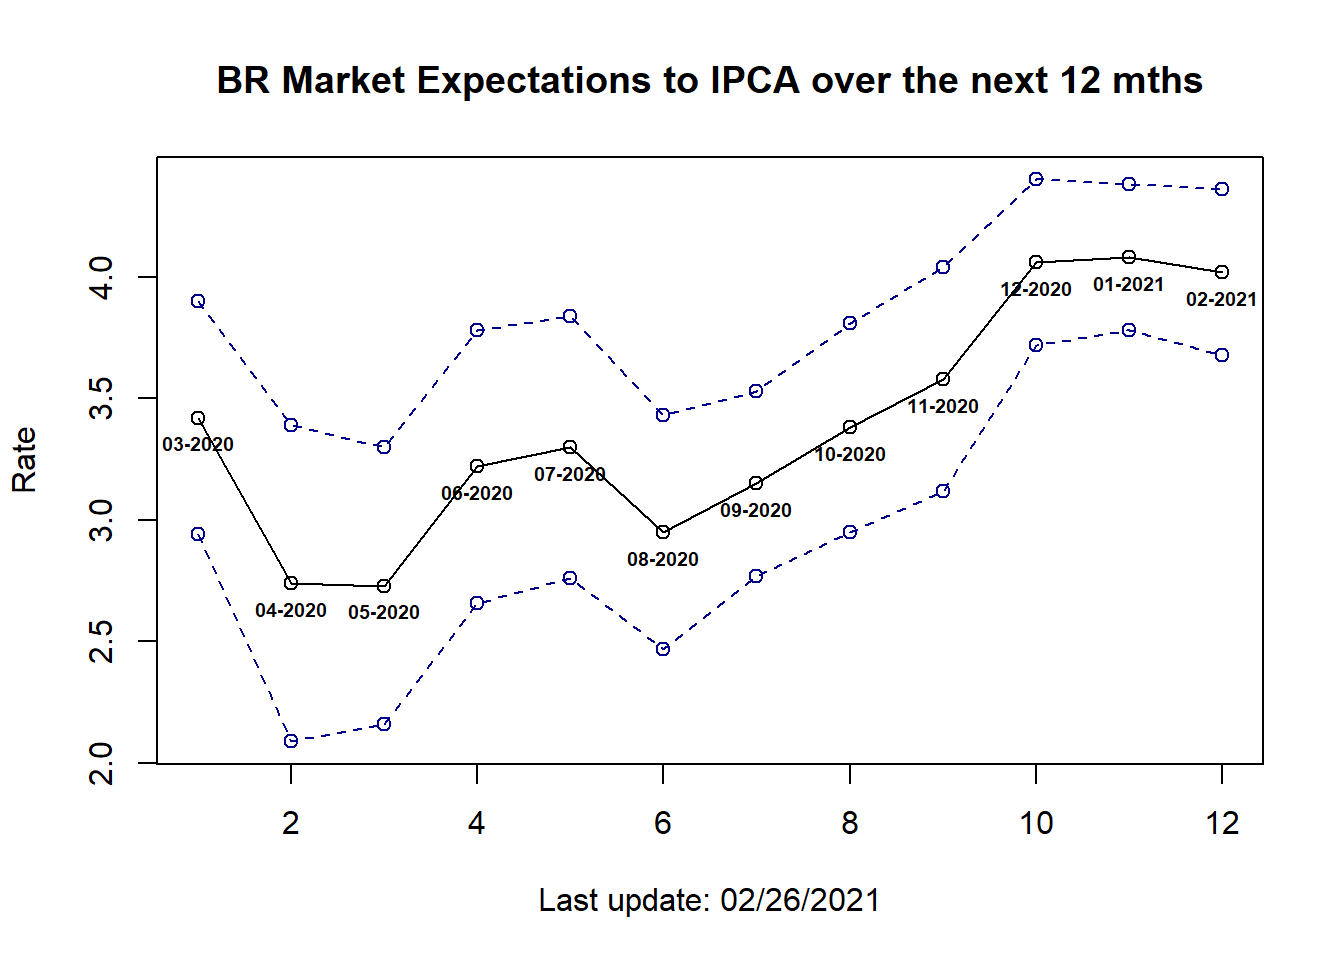
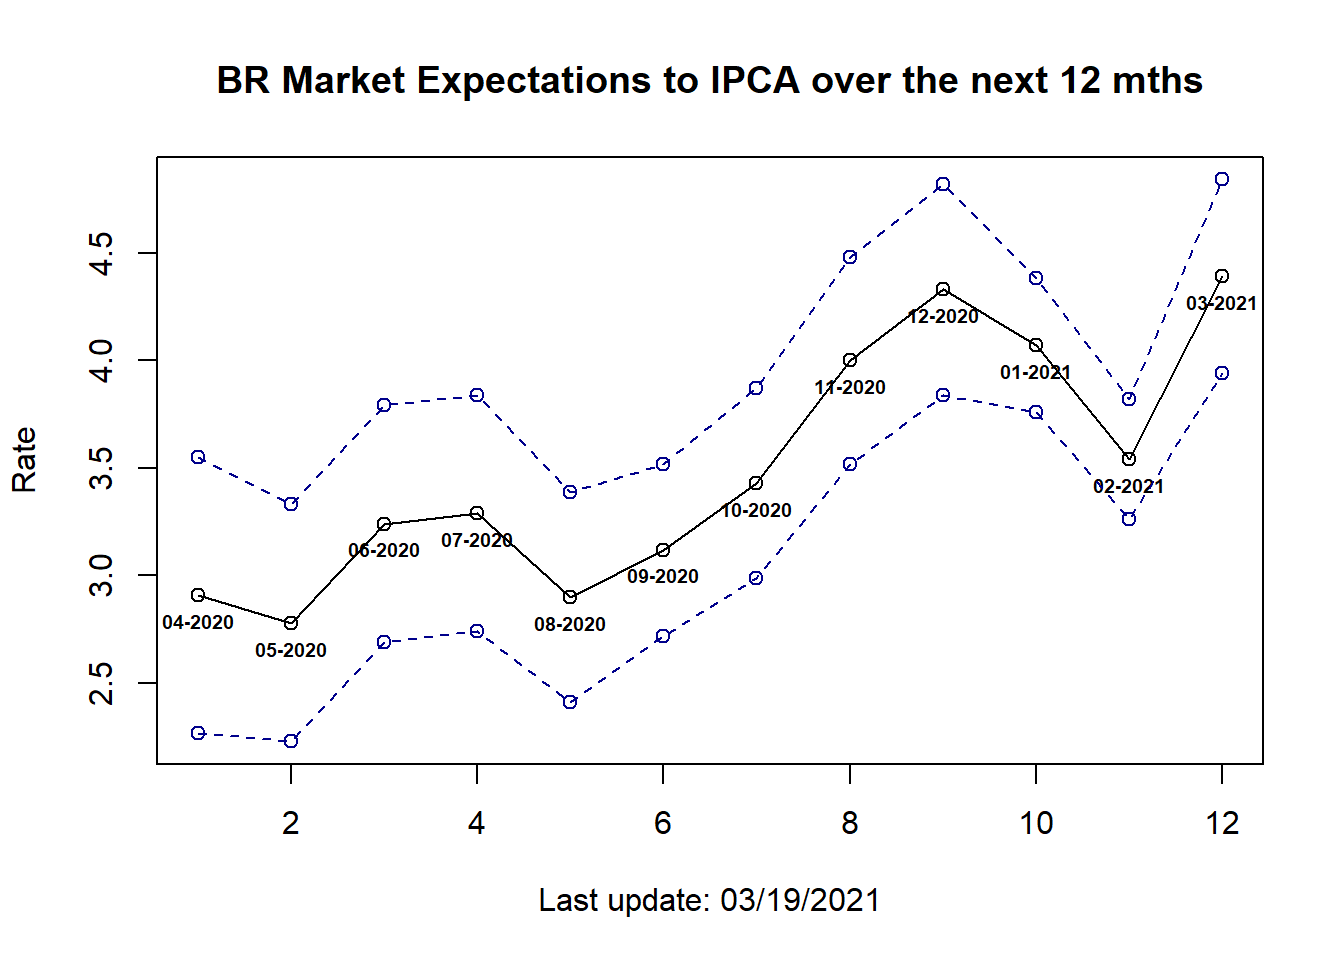
Add files via upload

diff --git a/expectations.html b/expectations.html
@@ -10,7 +10,6 @@
 
 
 
-<meta name="date" content="2021-04-03" />
 
 <title>Market Expectations in Brazil</title>
 
@@ -327,7 +326,7 @@ $(document).ready(function () {
 
 
 <h1 class="title toc-ignore">Market Expectations in Brazil</h1>
-<h4 class="date">04/03/2021</h4>
+<h4 class="date">29/03/2021</h4>
 
 </div>
 
